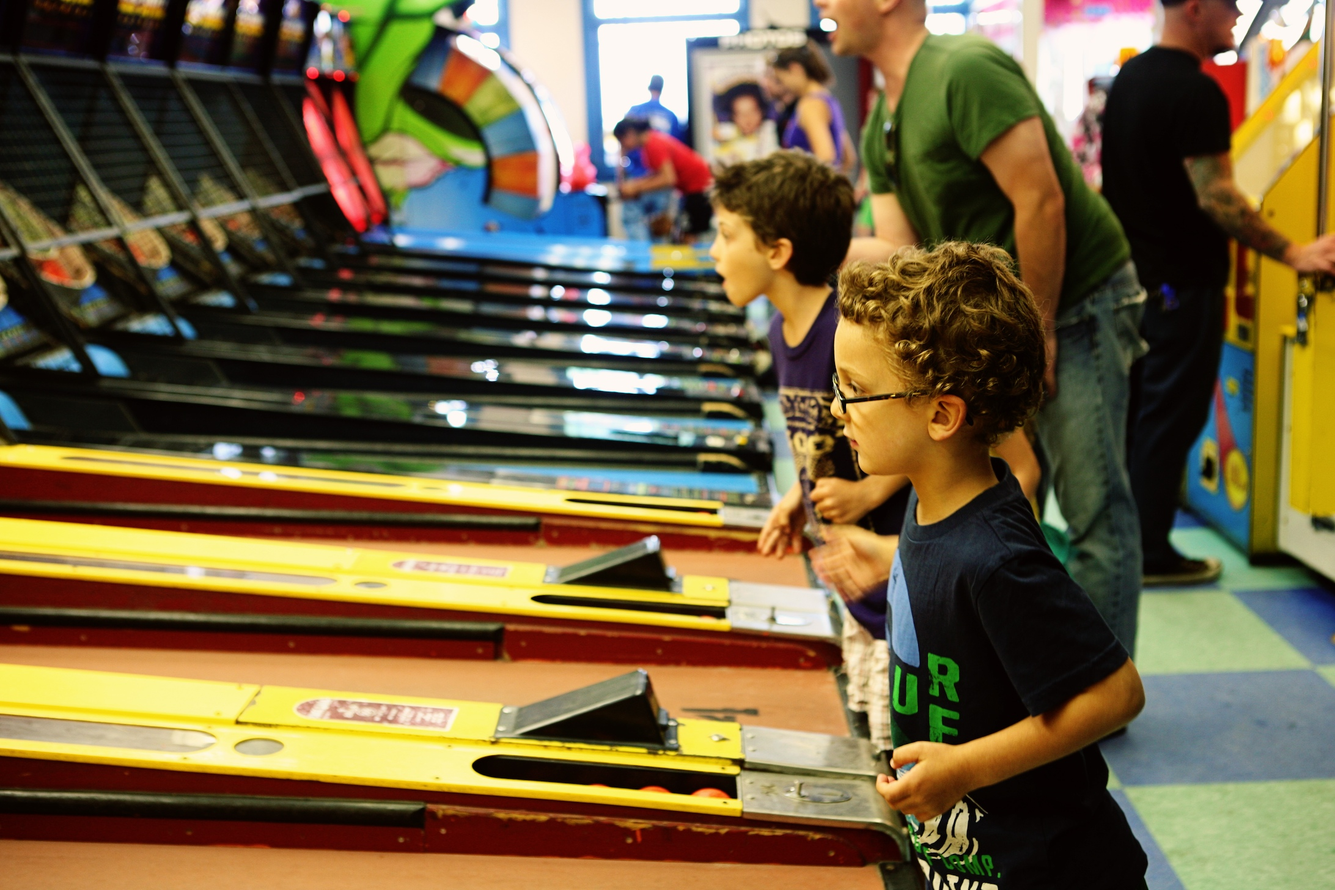
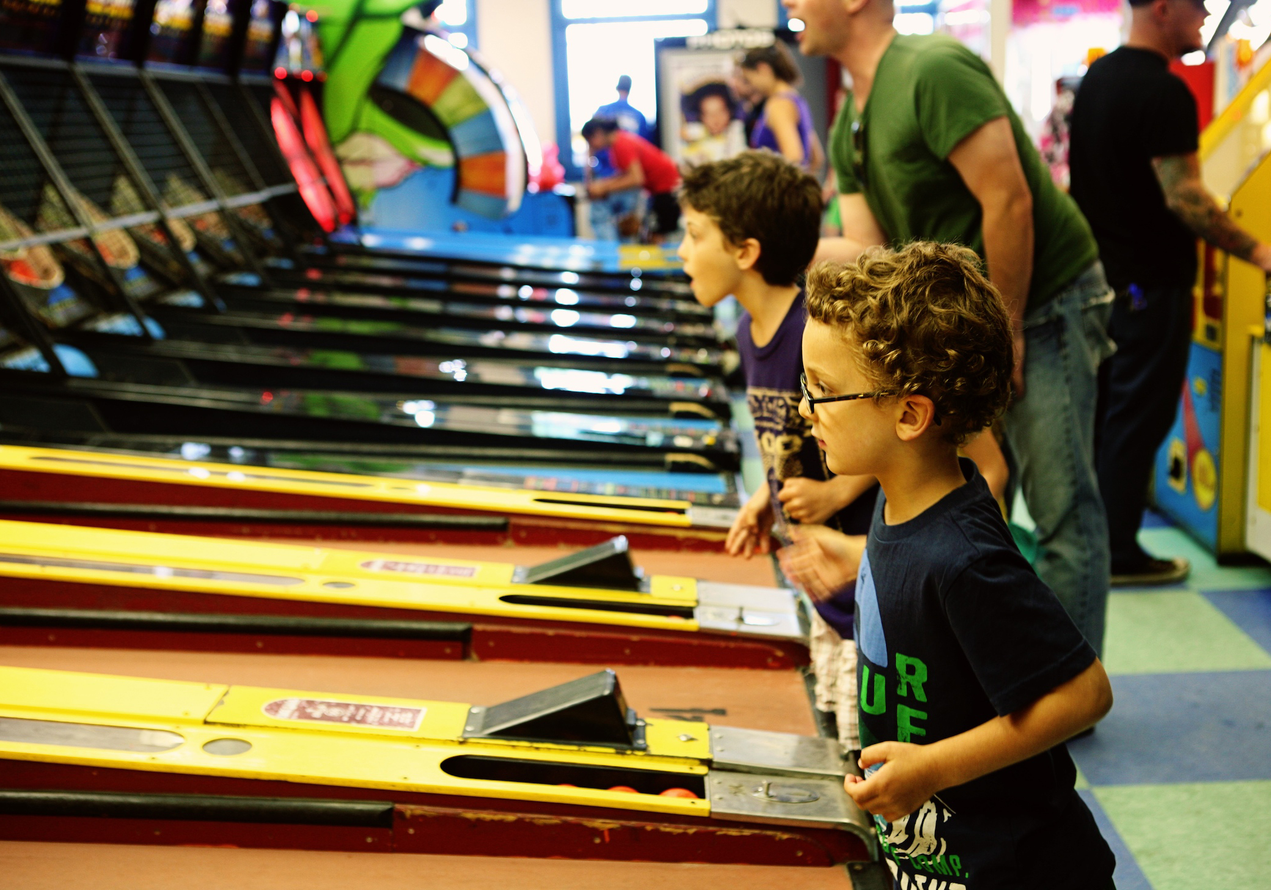
add custom jquery and resized images

diff --git a/css/main.css b/css/main.css
@@ -31,11 +31,8 @@ html {
 #header {
     width: 100%;
     height: auto;
-    background-image: url("headerbackground.jpg");
-    background-attachment: fixed;
-    background-position: center center;
-    background-size: cover;
     box-shadow: 1px 1px 1px #000000;
+    background-color: rgba(20, 133, 204, 0.9);
     text-align: center;
 }
 
@@ -43,8 +40,14 @@ html {
     width: 30%;
     max-width: 150px;
     margin-top: 1em;
+    margin-left: -0.5em;
     background-color: rgba(203, 220, 88, 0.95);
     border-radius: 50%;
+    box-shadow: 1px 1px 1px rgba(0, 0, 0, 0.8);
+}
+
+#header ul {
+    margin-left: -1.5em;
 }
 
 #header li {
@@ -69,6 +72,7 @@ a:link, a:visited, a:active {
 #content {
     margin: 0.25em;
     background-color: rgba(255, 255, 255, 0.8);
+    padding-top: 1em;
 }
 
 /* Welcome Styling */
@@ -124,8 +128,7 @@ a:link, a:visited, a:active {
 .menuitem {
     background-color: rgba(203, 220, 88, 0.9);
     margin: 0.5em;
-    padding: 1em;
-    border-radius: 5%;
+    border-radius: 10%;
     box-shadow: 1px 1px 1px rgba(0, 0, 0, 0.4);
 }
 
@@ -198,7 +201,8 @@ h3 {
     font-weight: 700;
     color: #1485cc;
     text-align: center;
-    margin-top: 1em;
+    margin-top: 0.25em;
+    margin-bottom: 0.25em;
 }
 
 p {
@@ -209,6 +213,7 @@ p {
     font-size: 0.75em;
     line-height: 1.5em;
     letter-spacing: 1px;
+    padding: 0.25em;
 }
 
 .submitbutton:hover {
@@ -258,6 +263,12 @@ p {
     color: #ffffff;
     border-radius: 5%;
     line-height: 1em;
+}
+
+/* jQuery Style */
+
+.h4hover {
+    color: black;
 }
 
 @media (min-width: 200px) {

diff --git a/index.html b/index.html
@@ -18,7 +18,6 @@
             </figure>
             <nav id="nav" class="subMenu">
                 <ul class="button">
-                    <a href="#welcome"><li class="submitbutton">Welcome</li></a>
                     <a href="#menu"><li class="submitbutton">Menu</li></a>
                     <a href="#specials"><li class="submitbutton">Specials</li></a>
                     <a href="#contact"><li class="submitbutton">Contact</li></a>
@@ -53,7 +52,7 @@
                         <h3 class="subhead">Entrees</h3>
                         <article>
                             <h4 class="subhead">Atomic Pizza</h4>
-                                <p>It's out of this world on an atomic level! Pepporoni, mushrooms, olives, and romano cheese</p>
+                                <p>Great pizza on an atomic level! Pepporoni/lots of other stuff.</p>
                                 <p>$10.99</p>
                         </article>
 

diff --git a/js/main.js b/js/main.js
@@ -1,7 +1,20 @@
+//Custom Javascript
+
 var welcome = document.getElementById( 'welcome' );
 
 welcome.addEventListener( 'click', function() {
 	welcome.innerHTML = '<h3>You will love Pizza Planet!</h3>';
+} );
+
+//Custon jquery
+$( document ).ready( function() {
+	$( 'h4' ).mouseenter( function() {
+		$( 'h4' ).addClass( 'h4hover' );
+	} );
+
+	$( 'h4' ).mouseleave( function() {
+		$( 'h4' ).removeClass( 'h4hover' );
+	} );
 } );
 
 //Backstrech Plug-in
